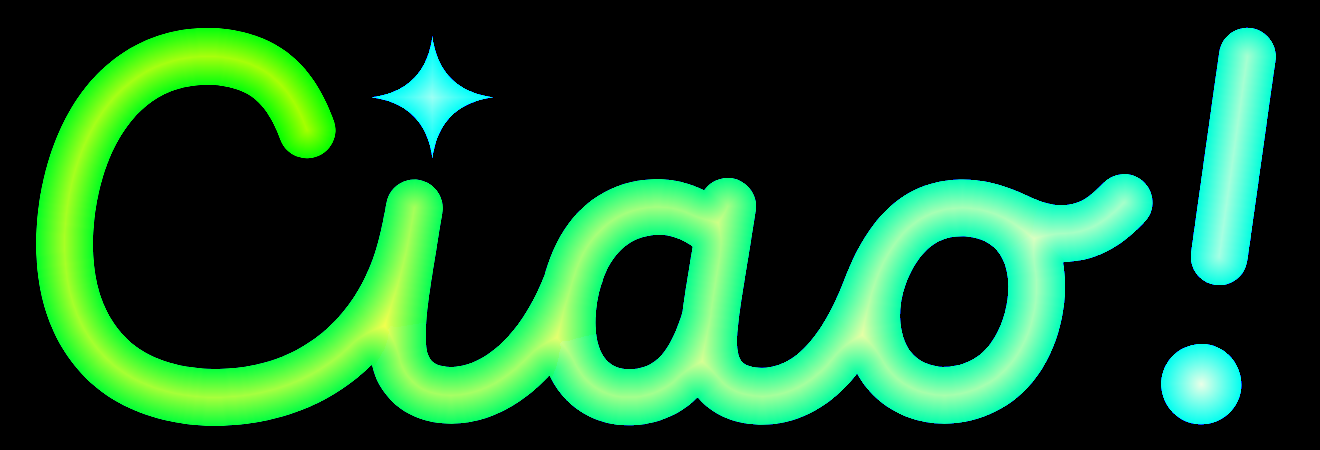
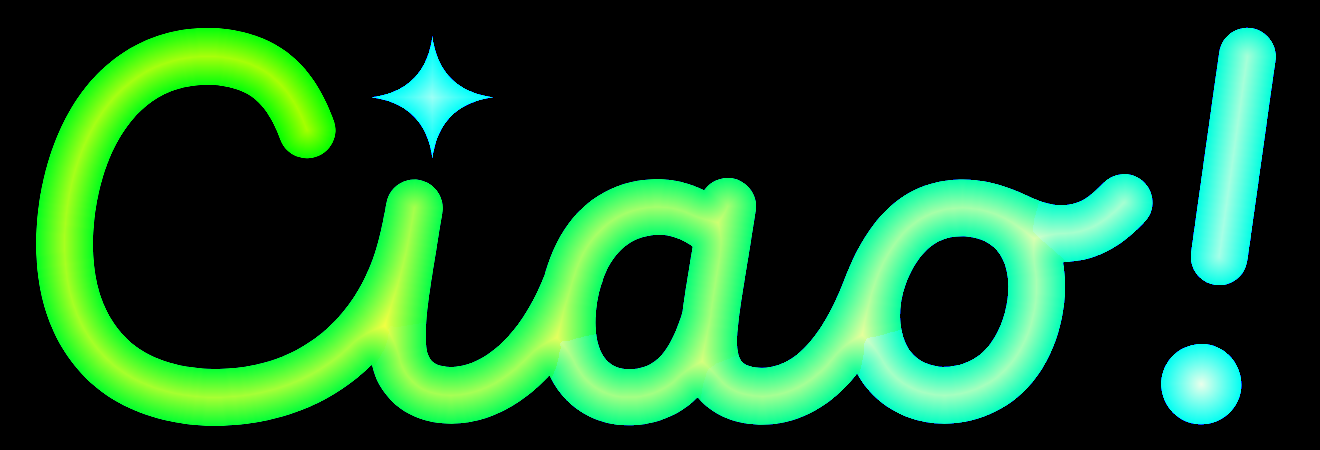
Scrittura a mano: penna singola sequenziale su Ciao! e mappa Voronoi senza buchi a velocità lineare su Filippo Corsini

Changed region(s): [[0.6523, 0.7156, 0.7144, 0.9333]]

diff --git a/src/lib/handwrite.ts b/src/lib/handwrite.ts
@@ -240,52 +240,203 @@ function measure(el: HTMLElement) {
   return { family: cs.fontFamily, ox, by, fs, text: (tn?.textContent ?? el.textContent ?? "").trim() };
 }
 
-type St = { sk: Skel; ox: number; by: number; fs: number; cv: HTMLCanvasElement; text: string; font: string; color: string; dpr: number };
+type St = {
+  sk: Skel;
+  ox: number;
+  by: number;
+  fs: number;
+  cv: HTMLCanvasElement;
+  mcv: HTMLCanvasElement;
+  mimg: ImageData;
+  inkIdx: Uint32Array;
+  inkT: Float32Array;
+  text: string;
+  font: string;
+  color: string;
+  dpr: number;
+};
 const state = new WeakMap<HTMLElement, St>();
 
 /**
+ * Costruisce una mappa pixel-esatta dei tempi di scrittura (Voronoi sulla traiettoria della penna singola):
+ * ogni pixel inchiostrato della parola riceve il tempo t del punto piu' vicino della penna (primo passaggio),
+ * garantendo zero buchi, zero angoli tagliati e zero sbavature sulle lettere vicine.
+ */
+function buildRevealMap(sk: Skel, ox: number, by: number, fs: number, w: number, h: number, font: string, text: string) {
+  const sc = Math.min(1, 640 / Math.max(1, w));
+  const mw = Math.max(2, Math.ceil(w * sc));
+  const mh = Math.max(2, Math.ceil(h * sc));
+  const mcv = document.createElement("canvas");
+  mcv.width = mw;
+  mcv.height = mh;
+  const mctx = mcv.getContext("2d", { willReadFrequently: true })!;
+  mctx.setTransform(sc, 0, 0, sc, 0, 0);
+  mctx.fillStyle = "#000";
+  mctx.font = font;
+  mctx.textBaseline = "alphabetic";
+  mctx.fillText(text, ox * fs, by * fs);
+  const src = mctx.getImageData(0, 0, mw, mh).data;
+
+  // Griglia spaziale popolata incrementalmente: se la penna ripassa vicino a un tratto gia' scritto,
+  // vince sempre il primo passaggio (zero puntini ritardati agli incroci come sulla 'o')
+  const CELL = 16;
+  const gw = Math.ceil(mw / CELL);
+  const gh = Math.ceil(mh / CELL);
+  const grid: number[][] = Array.from({ length: gw * gh }, () => []);
+  const sx: number[] = [];
+  const sy: number[] = [];
+  const st: number[] = [];
+  const dots: { x: number; y: number; r: number; t0: number; t1: number }[] = [];
+  const toX = (x: number) => (ox + x) * fs * sc;
+  const toY = (y: number) => (by + y) * fs * sc;
+  const dupR2 = Math.pow(Math.max(2, 0.035 * fs * sc), 2);
+
+  const pushSample = (x: number, y: number, t: number) => {
+    const gx0 = Math.max(0, Math.min(gw - 1, (x / CELL) | 0));
+    const gy0 = Math.max(0, Math.min(gh - 1, (y / CELL) | 0));
+    for (let gy = Math.max(0, gy0 - 1); gy <= Math.min(gh - 1, gy0 + 1); gy++) {
+      for (let gx = Math.max(0, gx0 - 1); gx <= Math.min(gw - 1, gx0 + 1); gx++) {
+        const bucket = grid[gy * gw + gx];
+        for (let b = 0; b < bucket.length; b++) {
+          const i = bucket[b];
+          if (t - st[i] > 0.18 && (x - sx[i]) * (x - sx[i]) + (y - sy[i]) * (y - sy[i]) < dupR2) return;
+        }
+      }
+    }
+    const idx = sx.length;
+    sx.push(x);
+    sy.push(y);
+    st.push(t);
+    grid[gy0 * gw + gx0].push(idx);
+  };
+
+  for (const it of sk.items) {
+    if (it.d) {
+      dots.push({ x: toX(it.d[0]), y: toY(it.d[1]), r: Math.max(3, it.d[2] * fs * sc * 1.45), t0: it.t[0], t1: it.t[1] });
+      continue;
+    }
+    const P = it.p!, tt = it.t;
+    for (let k = 0; k < P.length; k++) {
+      const x1 = toX(P[k][0]), y1 = toY(P[k][1]), t1 = tt[k];
+      if (k > 0) {
+        const x0 = toX(P[k - 1][0]), y0 = toY(P[k - 1][1]), t0 = tt[k - 1];
+        const emDist = Math.hypot(P[k][0] - P[k - 1][0], P[k][1] - P[k - 1][1]);
+        const dt = t1 - t0;
+        if (emDist > 1e-4 && dt / emDist < 0.45) continue;
+        const pxDist = Math.hypot(x1 - x0, y1 - y0);
+        const steps = Math.max(1, Math.ceil(pxDist / 2.5));
+        for (let s = 1; s <= steps; s++) {
+          const f = s / steps;
+          pushSample(x0 + (x1 - x0) * f, y0 + (y1 - y0) * f, t0 + dt * f);
+        }
+      } else {
+        pushSample(x1, y1, t1);
+      }
+    }
+  }
+
+  // Raccoglie solo i pixel inchiostrati (+ margine 1px per anti-alias pulito)
+  const idxs: number[] = [];
+  const times: number[] = [];
+  for (let y = 0; y < mh; y++) {
+    for (let x = 0; x < mw; x++) {
+      const p = y * mw + x;
+      let has = src[p * 4 + 3] > 4;
+      if (!has) {
+        if ((x > 0 && src[(p - 1) * 4 + 3] > 24) || (x + 1 < mw && src[(p + 1) * 4 + 3] > 24) || (y > 0 && src[(p - mw) * 4 + 3] > 24) || (y + 1 < mh && src[(p + mw) * 4 + 3] > 24)) {
+          has = true;
+        }
+      }
+      if (!has) continue;
+
+      // Controlla prima i puntini separati (es. puntini delle 'i')
+      let dotT = -1;
+      for (let d = 0; d < dots.length; d++) {
+        const dt = dots[d];
+        const dist = Math.hypot(x - dt.x, y - dt.y);
+        if (dist <= dt.r) {
+          dotT = dt.t0 + (dt.t1 - dt.t0) * Math.min(1, dist / dt.r);
+          break;
+        }
+      }
+      if (dotT >= 0) {
+        idxs.push(p);
+        times.push(dotT);
+        continue;
+      }
+
+      const gx0 = Math.max(0, Math.min(gw - 1, (x / CELL) | 0));
+      const gy0 = Math.max(0, Math.min(gh - 1, (y / CELL) | 0));
+      let bestD = Infinity;
+      let bestT = 0;
+      for (let rad = 1; rad <= 4 && bestD === Infinity; rad++) {
+        const yMin = Math.max(0, gy0 - rad), yMax = Math.min(gh - 1, gy0 + rad);
+        const xMin = Math.max(0, gx0 - rad), xMax = Math.min(gw - 1, gx0 + rad);
+        for (let gy = yMin; gy <= yMax; gy++) {
+          for (let gx = xMin; gx <= xMax; gx++) {
+            const bucket = grid[gy * gw + gx];
+            for (let b = 0; b < bucket.length; b++) {
+              const i = bucket[b];
+              const dx = x - sx[i], dy = y - sy[i];
+              const d2 = dx * dx + dy * dy;
+              if (d2 < bestD) { bestD = d2; bestT = st[i]; }
+            }
+          }
+        }
+      }
+      if (bestD === Infinity) {
+        for (let i = 0; i < sx.length; i++) {
+          const dx = x - sx[i], dy = y - sy[i];
+          const d2 = dx * dx + dy * dy;
+          if (d2 < bestD) { bestD = d2; bestT = st[i]; }
+        }
+      }
+      idxs.push(p);
+      times.push(bestT);
+    }
+  }
+
+  const mimg = mctx.createImageData(mw, mh);
+  return { mcv, mimg, inkIdx: Uint32Array.from(idxs), inkT: Float32Array.from(times) };
+}
+
+/**
  * Mentre scrive, la parola vera è nascosta e al suo posto c'è un canvas alla risoluzione dello schermo:
- * la stessa parola, stesso font e stessa posizione, ritagliata dal tratto della penna fino a p (0..1).
+ * la maschera Voronoi scopre ogni pixel del glifo senza alcun buco seguendo la penna singola.
  * Alla fine il canvas sparisce e torna il testo: identico, nessuno scatto.
  */
 function render(e: HTMLElement, p: number) {
   const st = state.get(e);
   if (!st) return;
-  const { sk, ox, by, fs, cv, dpr } = st;
+  const { sk, ox, by, fs, cv, mcv, mimg, inkIdx, inkT, dpr } = st;
   const ctx = cv.getContext("2d")!;
   ctx.setTransform(1, 0, 0, 1, 0, 0);
   ctx.globalCompositeOperation = "source-over";
   ctx.clearRect(0, 0, cv.width, cv.height);
-  ctx.setTransform(dpr, 0, 0, dpr, 0, 0);
-  ctx.strokeStyle = ctx.fillStyle = "#000";
-  ctx.lineCap = ctx.lineJoin = "round";
-  ctx.lineWidth = sk.w * fs;
-  const T = p * sk.total;
-  const px = (x: number, y: number): [number, number] => [(ox + x) * fs, (by + y) * fs];
-  for (const it of sk.items) {
-    if (T <= it.t[0]) continue;
-    if (it.d) {
-      const f = Math.min(1, (T - it.t[0]) / Math.max(1e-4, it.t[1] - it.t[0]));
-      const [x, y] = px(it.d[0], it.d[1]);
-      ctx.beginPath();
-      ctx.arc(x, y, it.d[2] * fs * (0.35 + 0.65 * f), 0, Math.PI * 2);
-      ctx.fill();
-      continue;
-    }
-    const P = it.p!, t = it.t;
-    ctx.beginPath();
-    ctx.moveTo(...px(P[0][0], P[0][1]));
-    for (let k = 1; k < P.length; k++) {
-      if (t[k] >= T) {
-        const f = (T - t[k - 1]) / Math.max(1e-6, t[k] - t[k - 1]);
-        ctx.lineTo(...px(P[k - 1][0] + (P[k][0] - P[k - 1][0]) * f, P[k - 1][1] + (P[k][1] - P[k - 1][1]) * f));
-        break;
+  if (p <= 0) return;
+
+  if (p < 0.999) {
+    const edge = 0.055;
+    const T = p * (sk.total + edge * 1.2) - edge * 0.15;
+    const data = mimg.data;
+    for (let i = 0; i < inkIdx.length; i++) {
+      const dt = T - inkT[i];
+      let a = 0;
+      if (dt >= edge) a = 255;
+      else if (dt > -edge) {
+        const u = (dt + edge) / (2 * edge);
+        a = Math.round(u * u * (3 - 2 * u) * 255);
       }
-      ctx.lineTo(...px(P[k][0], P[k][1]));
+      data[inkIdx[i] * 4 + 3] = a;
     }
-    ctx.stroke();
+    const mctx = mcv.getContext("2d")!;
+    mctx.putImageData(mimg, 0, 0);
+    ctx.imageSmoothingEnabled = true;
+    ctx.drawImage(mcv, 0, 0, cv.width, cv.height);
+    ctx.globalCompositeOperation = "source-in";
   }
-  ctx.globalCompositeOperation = "source-in";
+
+  ctx.setTransform(dpr, 0, 0, dpr, 0, 0);
   ctx.fillStyle = st.color;
   ctx.font = st.font;
   ctx.textBaseline = "alphabetic";
@@ -316,6 +467,7 @@ export function prepareWrite(el: Element) {
     const dpr = Math.min(3, window.devicePixelRatio || 1);
     const cv = prev?.cv ?? document.createElement("canvas");
     const w = e.offsetWidth, h = e.offsetHeight;
+    if (!w || !h) return;
     cv.width = Math.ceil(w * dpr);
     cv.height = Math.ceil(h * dpr);
     cv.setAttribute("aria-hidden", "true");
@@ -323,7 +475,9 @@ export function prepareWrite(el: Element) {
     if (getComputedStyle(e).position === "static") e.style.position = "relative";
     if (!cv.isConnected) e.appendChild(cv);
     e.style.setProperty("-webkit-text-fill-color", "transparent");
-    state.set(e, { sk, ox: m.ox, by: m.by, fs: m.fs, cv, text: m.text, font: `${cs.fontStyle} ${cs.fontWeight} ${m.fs}px ${m.family}`, color, dpr });
+    const font = `${cs.fontStyle} ${cs.fontWeight} ${m.fs}px ${m.family}`;
+    const map = buildRevealMap(sk, m.ox, m.by, m.fs, w, h, font, m.text);
+    state.set(e, { sk, ox: m.ox, by: m.by, fs: m.fs, cv, ...map, text: m.text, font, color, dpr });
     e.dataset.wlen = String(sk.total);
     render(e, Number(e.dataset.wp ?? 0));
   };
@@ -340,21 +494,21 @@ const wipeStyle = (el: HTMLElement) => {
   el.style.maskImage = EDGE;
 };
 
-/** Quanto dura scrivere una parola: segue la lunghezza del tratto (per ora lenta). */
+/** Quanto dura scrivere una parola: proporzionale alla lunghezza del tratto, velocità lineare pulita. */
 export const writeTime = (el: Element) => {
   prepareWrite(el);
   const len = parseFloat((el as HTMLElement).dataset.wlen ?? "");
-  return len ? Math.min(3.2, Math.max(0.6, 0.35 + len / 3.2)) : Math.min(1.6, Math.max(0.5, 0.28 + (el.textContent?.length ?? 6) * 0.075));
+  return len ? Math.min(3.2, Math.max(0.6, len / 4.2)) : Math.min(1.6, Math.max(0.5, 0.28 + (el.textContent?.length ?? 6) * 0.075));
 };
 
-/** Aggiunge alla timeline la scrittura di una parola. */
+/** Aggiunge alla timeline la scrittura di una parola a velocità lineare e pulita. */
 export const writeOn = (L: gsap.core.Timeline, el: Element, at: number, dur = writeTime(el)) => {
   const e = el as HTMLElement;
   if (isScript(e)) {
     prepareWrite(e);
     e.dataset.wp = "0";
     const pr = { p: 0 };
-    L.fromTo(pr, { p: 0 }, { p: 1, duration: dur, ease: "sine.inOut", onUpdate: () => { e.dataset.wp = String(pr.p); render(e, pr.p); } }, at);
+    L.fromTo(pr, { p: 0 }, { p: 1, duration: dur, ease: "none", onUpdate: () => { e.dataset.wp = String(pr.p); render(e, pr.p); } }, at);
     L.call(() => { e.dataset.wdone = "1"; finish(e); }, undefined, at + dur + 0.02);
     return L;
   }
@@ -369,6 +523,6 @@ export const writeOnScroll = (els: Element[], delay = 0.3) => {
     prepareWrite(el);
     el.dataset.wp = "0";
     const pr = { p: 0 };
-    gsap.to(pr, { p: 1, duration: writeTime(el), ease: "sine.inOut", delay: delay + i * 0.18, onUpdate: () => { el.dataset.wp = String(pr.p); render(el, pr.p); }, onComplete: () => { el.dataset.wdone = "1"; finish(el); } });
+    gsap.to(pr, { p: 1, duration: writeTime(el), ease: "none", delay: delay + i * 0.18, onUpdate: () => { el.dataset.wp = String(pr.p); render(el, pr.p); }, onComplete: () => { el.dataset.wdone = "1"; finish(el); } });
   });
 };

diff --git a/scripts/gen-ciao-data.js b/scripts/gen-ciao-data.js
@@ -134,45 +134,38 @@ function segLen(pts) {
   return s;
 }
 
-// Segmenti in ordine corsivo naturale con tempi strettamente proporzionali alla lunghezza reale in pixel
+// Segmenti in ordine corsivo a PENNA SINGOLA (un solo tratto attivo alla volta, velocità lineare costante)
 const sC   = P0;
 const sI   = P1.slice(0, 26);
-const sAT  = P1.slice(25, 53);
-const sAB  = P2;
-const sAS  = P1.slice(52, 69);
-const sAO  = P1.slice(68, 87);
-const sOT  = P1.slice(86, 117);
-const sOB  = [...P3].reverse();
-const sOTl = P1.slice(116);
-const sBng = P4;
+const sAT  = P1.slice(25, 53);     // a: sale a sinistra e gira sopra
+const sAS  = P1.slice(52, 69);     // a: scende sullo stelo destro
+const sAB  = [...P2].reverse();    // a: chiude il fondo da destra a sinistra in continuità
+const sAO  = P1.slice(68, 87);     // collegamento a -> o
+const sOT  = P1.slice(86, 117);    // o: sale a sinistra e gira sopra
+const sOB  = P3;                   // o: scende a destra e chiude il fondo in continuità
+const sOTl = P1.slice(116);        // o: codina di uscita
+const sBng = P4;                   // ! asta
 
-// Calcolo cumulativo lineare in pixel (a e o chiudono l'ovale in parallelo alla stessa velocità lineare)
+// Calcolo cumulativo strettamente sequenziale (una sola penna, nessun tratto in parallelo)
 const rawBody = [];
 let cur = 0;
-function pushSeg(pts, startAt = cur) {
+function pushSeg(pts, gap = 0) {
+  cur += gap;
   const len = segLen(pts);
-  rawBody.push({ pts, s0: startAt, s1: startAt + len });
-  return startAt + len;
+  rawBody.push({ pts, s0: cur, s1: cur + len });
+  cur += len;
 }
-cur = pushSeg(sC);
-cur = pushSeg(sI);
-const aStart = cur;
-const aTopEnd = pushSeg(sAT, aStart);
-// Il fondo di 'a' parte poco dopo l'ingresso e chiude insieme allo stelo destro
-const aStemEnd = pushSeg(sAS, aTopEnd);
-pushSeg(sAB, Math.max(aStart, aStemEnd - segLen(sAB)));
-cur = aStemEnd;
-cur = pushSeg(sAO);
-const oStart = cur;
-const oTopEnd = pushSeg(sOT, oStart);
-// Il fondo di 'o' corre in parallelo e si ricongiunge in alto a destra prima della coda
-const oBotLen = segLen(sOB);
-const oJoin = Math.max(oTopEnd, oStart + oBotLen);
-pushSeg(sOB, oJoin - oBotLen);
-cur = oJoin;
-cur = pushSeg(sOTl);
+pushSeg(sC);
+pushSeg(sI);
+pushSeg(sAT);
+pushSeg(sAS);
+pushSeg(sAB);
+pushSeg(sAO, 18); // breve ritorno lungo il tratto già scritto fino all'uscita di 'a'
+pushSeg(sOT);
+pushSeg(sOB);
+pushSeg(sOTl, 18); // breve ritorno fino alla codina di 'o'
 
-const bangStart = cur + 65; // breve stacco penna prima del '!'
+const bangStart = cur + 65; // stacco penna prima del '!'
 const bangEnd = bangStart + segLen(sBng);
 const dotStart = bangEnd + 45;
 const dotEnd = dotStart + 95;
@@ -184,7 +177,7 @@ const bodyStrokes = rawBody.map(st => ({ pts: st.pts, t0: st.s0 / TOTAL, t1: st.
 const bangT0 = bangStart / TOTAL, bangT1 = bangEnd / TOTAL;
 const dotT0 = dotStart / TOTAL, dotT1 = dotEnd / TOTAL;
 const sparkT0 = sparkStart / TOTAL, sparkT1 = sparkEnd / TOTAL;
-console.log("Total linear path length:", Math.round(TOTAL), "px | C ends at:", (segLen(sC) / TOTAL).toFixed(3));
+console.log("Total single-pen linear path length:", Math.round(TOTAL), "px | C ends at:", (segLen(sC) / TOTAL).toFixed(3));
 
 // Precompute cumulative arc-length times for each sample point
 function densify(strokes) {
